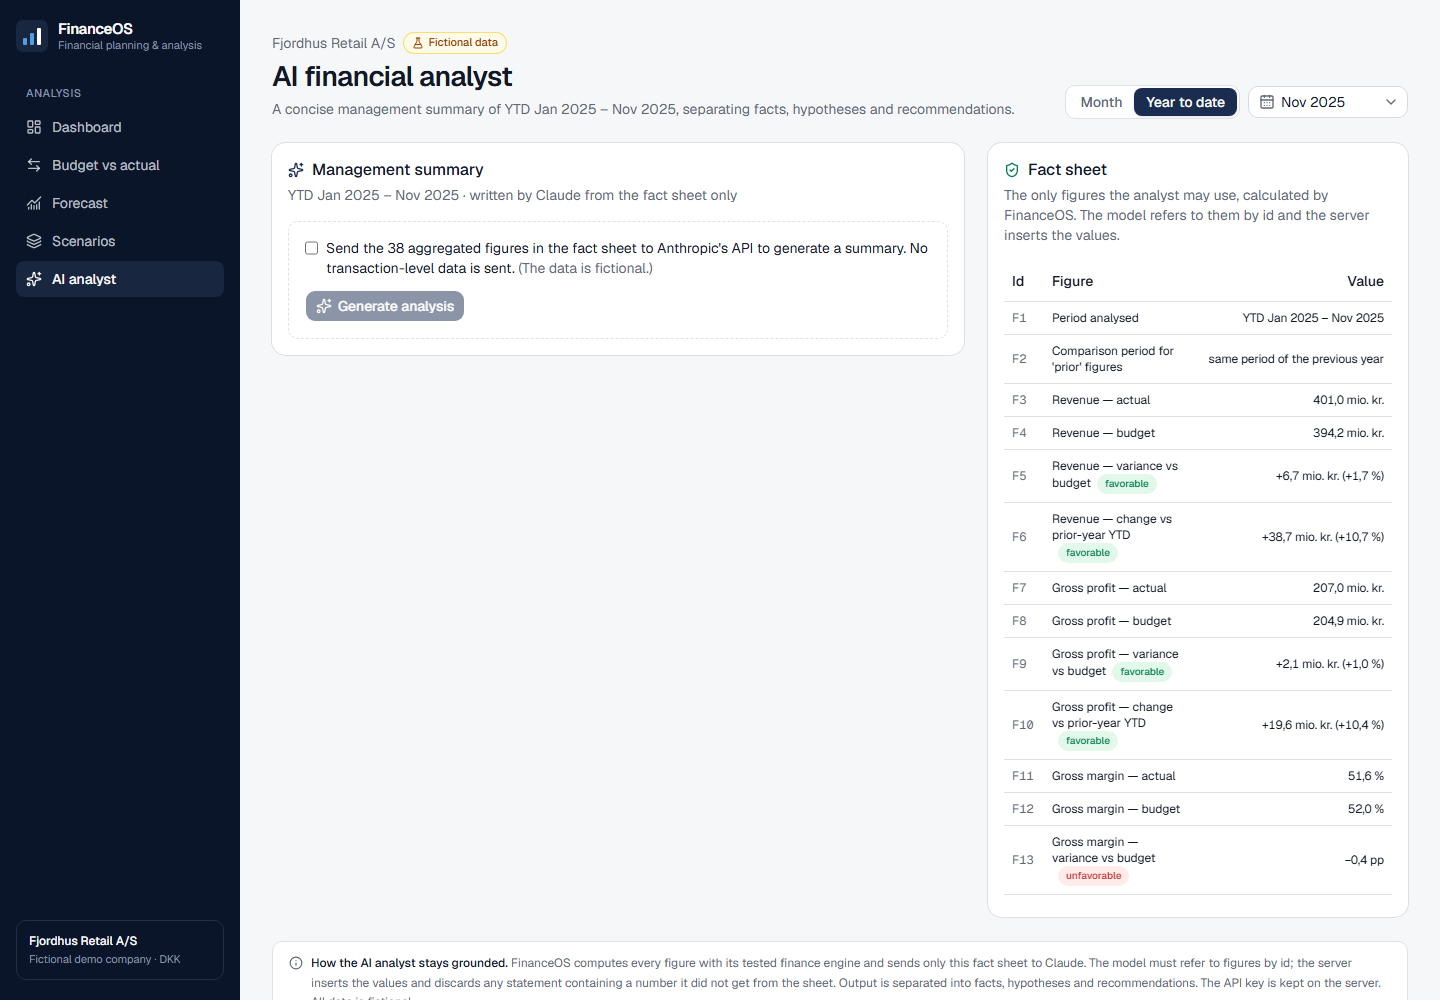
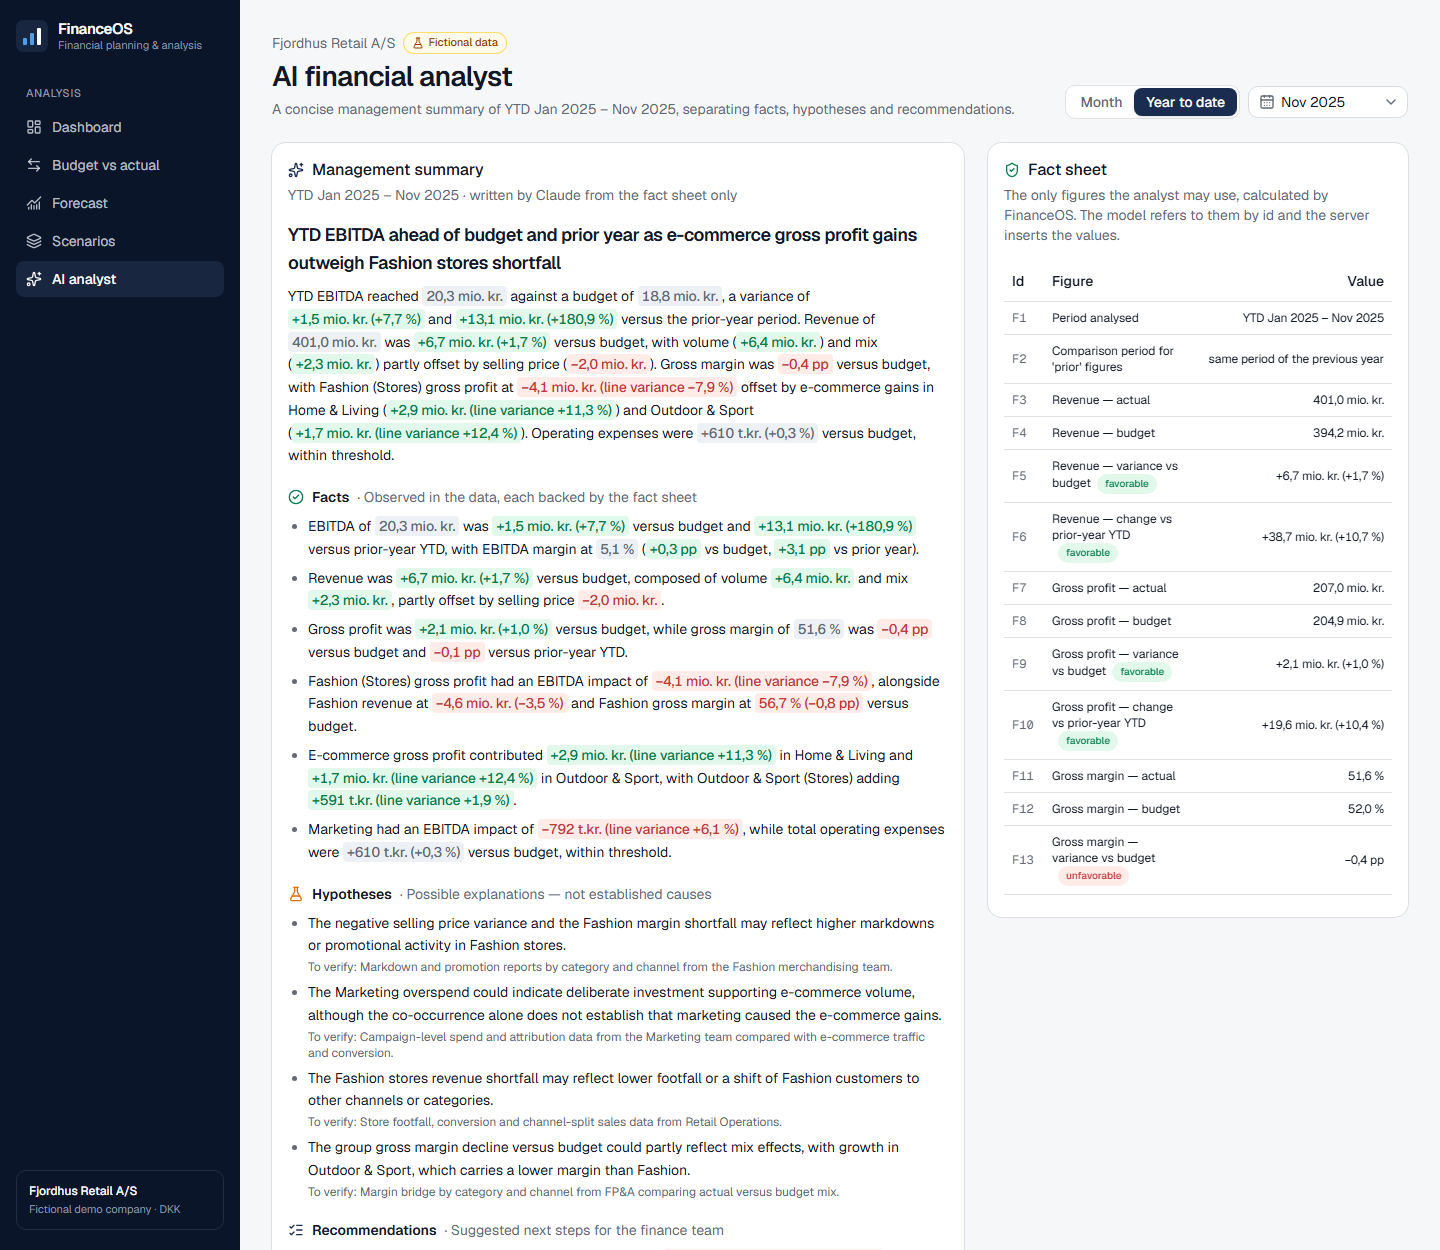
docs: production readiness report, README methodology/architecture/security, live AI screenshot

diff --git a/docs/qa/production-readiness.md b/docs/qa/production-readiness.md
@@ -1,0 +1,126 @@
+# Production readiness review — FinanceOS
+
+Date: 2026-11-11 · Live: https://financeos-kappa-nine.vercel.app · Repo: https://github.com/fred2601/financeos
+
+Scope: the nine review areas requested before the portfolio launch. No new features or
+redesign; verified issues were fixed, and everything else is listed under limitations.
+
+## Result
+
+**Ready for portfolio launch.** I found 9 verified issues and fixed all of them. Automated
+checks: **216 / 216 tests passing**, TypeScript strict passes, ESLint passes with 0 problems,
+and the production build succeeds. Production dependencies: **0 known vulnerabilities**.
+
+## 1. AI analyst end-to-end in production
+
+| Path | How it was checked | Result |
+|---|---|---|
+| Successful analysis | Live call for YTD Nov 2025 | ✅ 200, figures match the app, 0 statements rejected |
+| Loading state | UI shows a spinner and "usually takes 15–40 seconds"; the button is disabled while running | ✅ |
+| Missing API key | Live, before the key was set | ✅ 503 "not configured"; the page still shows the fact sheet |
+| Invalid input (bad period, extra field, not JSON) | Live requests | ✅ 400 with a clear message |
+| Wrong method | Live GET | ✅ 405 |
+| Model refusal, truncation, unparseable output | Route tests with a mocked model | ✅ 502, nothing cached |
+| SDK timeout / API error / network error | Route tests | ✅ 504 / 502, no internal details leaked |
+| Non-JSON response from the platform (e.g. timeout page) | Code review → **fixed** | ✅ shown as a readable error instead of "could not reach the server" |
+| Repeat requests | Live → **issue found**: each repeat hit a new server instance and was billed again | ✅ fixed with a shared `use cache: remote` cache. Live after the fix: 1st call 12,4 s (`cached: false`), 2nd call **0,6 s** (`cached: true`, same `generatedAt`) |
+| Cross-site / wrong content type | Live after the fix | ✅ `text/plain` → 415, foreign `Origin` → 403 |
+
+## 2. AI grounding: facts vs hypotheses vs recommendations
+
+Already enforced: figures only via `{{F#}}` placeholders from the fact sheet. Any digit or
+number word, unknown id, or uncited "fact" is removed.
+
+**Added in this review**, applied to facts and the summary:
+- statements that state a cause ("because", "due to", "driven by", …) are removed, because
+  causes belong in hypotheses;
+- statements that call a figure *favorable* or *unfavorable* must cite at least one fact with
+  that status.
+
+Checked against the real live output from earlier: 7 / 7 facts still pass, so a good analysis
+isn't over-filtered. In the UI, facts, hypotheses (each with "to verify") and recommendations
+sit in separate, labelled sections, with a note that hypotheses and recommendations are
+suggestions.
+
+## 3. Materiality: misleading classifications
+
+Scanned all 1.344 amount comparisons (24 months × month/YTD × KPIs, accounts, cost lines).
+**Issue found:** 17 large variances were labelled "On budget" because their % was under 1 %.
+The clearest is **FY2024 revenue, −2,55 mio. kr. (−0,6 %)**, shown as on budget in a year
+when EBITDA missed by 3,5 mio. kr.
+
+**Fixed:**
+- Variances ≥ **1 mio. kr.** are always material. The rule is now (≥ 50 t.kr. AND ≥ 1 %) OR ≥ 1 mio. kr.
+- The neutral label "On budget" is renamed **"Within threshold"**, since a small variance isn't
+  exactly on budget.
+- Price/volume/mix facts sent to the AI now use the same materiality.
+
+A regression test covers the FY2024 case.
+
+## 4. Navigation
+
+The dead "Soon" / "Coming in a later milestone" code path is removed from the sidebar, and all
+five modules link normally. An unused in-memory cache was removed too.
+
+## 5. Mobile, accessibility, usability
+
+- Checked at 375 px, 768 px and 1440 px. Fixed: AI fact-sheet values were clipped on phones
+  and now wrap.
+- Headings: **issue found**: pages went from `h1` straight to `h3`, because card titles were plain
+  `div`s. Fixed: card titles and KPI labels are now `h2`.
+- Verified: a skip link, a `main` landmark, labelled navigation, `lang="en"`, focus rings on
+  custom controls, every chart with a text alternative (sparklines hidden as decorative), and
+  all inputs labelled. The Base UI Select's hidden form input is `aria-hidden` and not
+  focusable.
+- An automated axe-core scan wasn't run. Loading it from a CDN was blocked by the session's
+  safety settings, so a manual DOM audit was used instead.
+
+## 6. Automated checks
+
+| Check | Result |
+|---|---|
+| `npm test` (Vitest) | 216 passed, 0 failed, 13 files |
+| `npm run typecheck` | passes |
+| `npm run lint` | 0 problems |
+| `npm run build` | succeeds |
+| `npm audit --omit=dev` | 0 vulnerabilities (the 6 low/moderate findings were in the `shadcn` CLI, now a dev dependency) |
+
+## 7. README
+
+Rewritten with purpose, an architecture diagram, financial methodology, security, screenshots,
+quality, setup, known limitations and the live demo URL.
+
+## 8. Fictional data labelling
+
+- Every module page shows a **"Fictional data"** badge.
+- The sidebar says "Fictional demo company".
+- The page footers say "All data is fictional".
+- The seed file carries `fictional: true`, which the schema requires.
+- The AI prompt states "fictional demo data", and the README and DATA.md say so explicitly.
+
+## 9. Security
+
+| Area | Finding | Status |
+|---|---|---|
+| API key | Read only in the server route; none of the client bundles contain the key name, a key or the API host | ✅ |
+| Cross-site cost abuse | **Issue:** `/api/analyst` accepted `text/plain` POSTs, which any website can send from a visitor's browser | ✅ fixed: only same-origin `application/json` (415 / 403 otherwise) |
+| Input validation | Strict Zod schema; URL params clamped; no user free text reaches the model (no prompt-injection surface) | ✅ |
+| Error leakage | Generic messages; no stack traces or upstream details | ✅ |
+| Security headers | **Issue:** only HSTS was set | ✅ added nosniff, referrer policy, framing denial (`X-Frame-Options` + `frame-ancestors`), permissions policy; `X-Powered-By` removed |
+| Dependencies | 6 low/moderate findings in the dev-only `shadcn` CLI | ✅ moved to devDependencies |
+| Secrets in git history | Scanned before the repo went public: no keys, no personal email, only `.env.example` | ✅ |
+
+## Unresolved limitations (accepted for a portfolio demo)
+
+1. **No strict Content-Security-Policy.** Next.js inline scripts would need nonces; only
+   `frame-ancestors` is set.
+2. **The rate limit is per server instance.** The shared result cache and the Anthropic spend
+   limit are the effective cost controls. A global limit would need a store such as Redis.
+3. **The AI wording checks are heuristic.** They catch numbers, unknown ids, causal words in
+   facts and favorable/unfavorable mismatches, but not every possible misstatement.
+   Hypotheses and recommendations remain suggestions.
+4. **Materiality thresholds are company-wide**, not per account, department or period length.
+5. **The scenario base case is independent of the Forecast page.** The difference is
+   documented, and an integration proposal is in `m4-scenarios-qa.md`.
+6. **No CSV/Excel import yet** (roadmap M5). The app only shows the fictional dataset.
+7. **No automated axe-core scan.** See section 5.

diff --git a/README.md b/README.md
@@ -29,41 +29,88 @@ analyst that cannot invent numbers.
   </tr>
   <tr>
     <td><img src="docs/screenshots/scenarios.png" alt="Scenario analysis" /></td>
-    <td><img src="docs/screenshots/analyst.png" alt="AI analyst with fact sheet" /></td>
+    <td><img src="docs/screenshots/analyst.png" alt="AI analyst: management summary, facts and hypotheses next to the fact sheet" /></td>
   </tr>
 </table>
+
+## Purpose
+
+FinanceOS shows how a finance business partner at a medium-sized Danish retailer would review
+performance, explain budget variances, build a forecast and test scenarios, with every
+number traceable and tested. It's a portfolio project. The company, **Fjordhus Retail A/S**,
+and all its data are fictional, and the app labels them as such on every page.
+
+## Architecture
+
+```mermaid
+flowchart LR
+  seed["Fictional dataset<br/>(generated, validated with Zod)"] --> finance["lib/finance<br/>pure, tested calculations"]
+  finance --> selectors["lib/selectors<br/>view-models per page"]
+  selectors --> pages["Pages & charts<br/>(display only)"]
+  selectors --> facts["lib/analyst<br/>fact sheet"]
+  facts --> route["/api/analyst<br/>(server only)"]
+  route -->|"fact sheet only"| claude["Claude API"]
+  claude -->|"text with {{F#}} placeholders"| validate["Validator<br/>rejects own numbers, causes in facts"]
+  validate --> pages
+```
+
+- **Next.js App Router** with server components; charts and inputs are client components.
+- **No database.** The fictional data ships with the app, and assumptions live in the URL, so
+  every view can be shared as a link.
+- **The API key lives only on the server.** The browser sends just `{ period, view }` to
+  `/api/analyst`.
 
 ## Design principles
 
 1. **One source of truth for every number.** All calculations live in pure, tested functions
    in `src/lib/finance/`. Pages and charts only display results.
 2. **Favorable/unfavorable follows the account, not the sign.** Costs above budget are red.
-   Variances under 1 % or 50 t.kr. count as on budget.
+   Small variances are shown as *within threshold* (see Financial methodology).
 3. **Missing is not zero.** A missing or undefined value shows as "n/a", never as a misleading 0.
 4. **Transparent models.** Every forecast and scenario figure can be traced back to a
    formula, and the page shows that formula with the actual numbers.
 5. **AI that cannot invent figures.** The model refers to facts by id (`{{F12}}`). The server
    rejects any statement with a number it didn't supply, then inserts the validated values.
 
-## Key definitions
+## Financial methodology
 
-- Revenue = units × average selling price
-- Gross profit = revenue − COGS; gross margin = gross profit ÷ revenue
-- EBITDA = gross profit − operating expenses (excludes depreciation & amortisation)
-- Variance = actual − budget; variance % = variance ÷ |budget|
-- Margin changes are in percentage points (pp)
+| Topic | Rule |
+|---|---|
+| Core P&L | Revenue = units × average selling price · Gross profit = revenue − COGS · EBITDA = gross profit − operating expenses (excludes D&A) · Margins = metric ÷ revenue |
+| Variance | Actual − budget; % variance = variance ÷ \|budget\| (a smaller-than-planned loss shows as positive) |
+| Favorable / unfavorable | By account direction: revenue and profit are higher-is-better, costs lower-is-better |
+| Materiality | A variance is material if it's ≥ 50 t.kr. **and** ≥ 1 %, **or** ≥ 1 mio. kr. whatever the %. Margins: ≥ 0,1 pp. Anything smaller is shown as *within threshold* |
+| Price / volume / mix | Three-way split by category × channel; volume + mix + price = total revenue variance exactly |
+| EBITDA bridge | Budget → volume & mix (at budget GP per unit) → price (100 % flow-through) → product cost → each cost account → actual |
+| Forecast | Month by month from FY2025 actuals: units × (1 + growth), price × (1 + change), margin + pp change, cost × (1 + growth) |
+| Scenarios | EBITDA = (1 + s) × (GP₀ + m × Revenue₀) − (1 + o) × Opex₀, with sensitivities per lever |
+| Missing data | Shown as "n/a", never as 0. Margins are n/a when revenue ≤ 0 |
 
 Full formulas, data schema and design decisions: [`docs/ARCHITECTURE.md`](docs/ARCHITECTURE.md).
+The storyline built into the fictional data: [`docs/DATA.md`](docs/DATA.md).
+
+## Security
+
+- `ANTHROPIC_API_KEY` is read only by the server route. Nothing is prefixed `NEXT_PUBLIC_`,
+  and the client bundles contain no key or API host (checked).
+- `/api/analyst` accepts only same-origin `application/json` requests, validates input
+  strictly with Zod, and rebuilds the fact sheet on the server. No user-supplied text ever
+  reaches the model.
+- Cost controls: results are cached in Vercel's shared cache per period, with a per-client
+  rate limit. A spend limit on the key is the real cap.
+- Security headers: `nosniff`, strict referrer policy, framing denied, permissions policy.
+- Production dependencies: `npm audit --omit=dev` reports 0 vulnerabilities.
 
 ## Quality
 
-- **205 automated tests** (Vitest) across 13 files. They cover the finance engine, data
+- **216 automated tests** (Vitest) across 13 files. They cover the finance engine, data
   integrity of the seed, every view-model, and two financial QA suites with independent
   reconciliations: [`docs/qa/m3-forecast-qa.md`](docs/qa/m3-forecast-qa.md) and
   [`docs/qa/m4-scenarios-qa.md`](docs/qa/m4-scenarios-qa.md).
 - TypeScript strict mode, ESLint, and a production build check before every commit.
-- Accessibility: keyboard focus styles, a skip link, text alternatives for charts, and status
-  shown in text as well as colour.
+- Accessibility: keyboard focus styles, a skip link, an h1 → h2 heading outline, labelled
+  inputs, text alternatives for charts, and status shown in text as well as colour.
+- Production readiness review: [`docs/qa/production-readiness.md`](docs/qa/production-readiness.md).
 
 ## Tech stack
 
@@ -137,7 +184,10 @@ docs/                architecture, data storyline, roadmap, QA reports, demo scr
 - The forecast copies FY2025 seasonality and one-off effects. Drivers apply evenly to all months.
 - Scenario levers are company-wide, and costs don't flex automatically with sales.
 - There are no user accounts or database. Assumptions live in the URL.
-- AI hypotheses and recommendations are suggestions to review. Only the figures are guaranteed.
+- AI hypotheses and recommendations are suggestions to review. Only the figures, and the
+  wording checks on facts, are enforced.
+- The rate limit is per server instance, and there is no strict Content-Security-Policy yet.
+- Materiality thresholds are company-wide, not per account or department.
 - CSV/Excel import (roadmap M5) is not built yet.
 
 See [`docs/ROADMAP.md`](docs/ROADMAP.md) for the milestone history.
